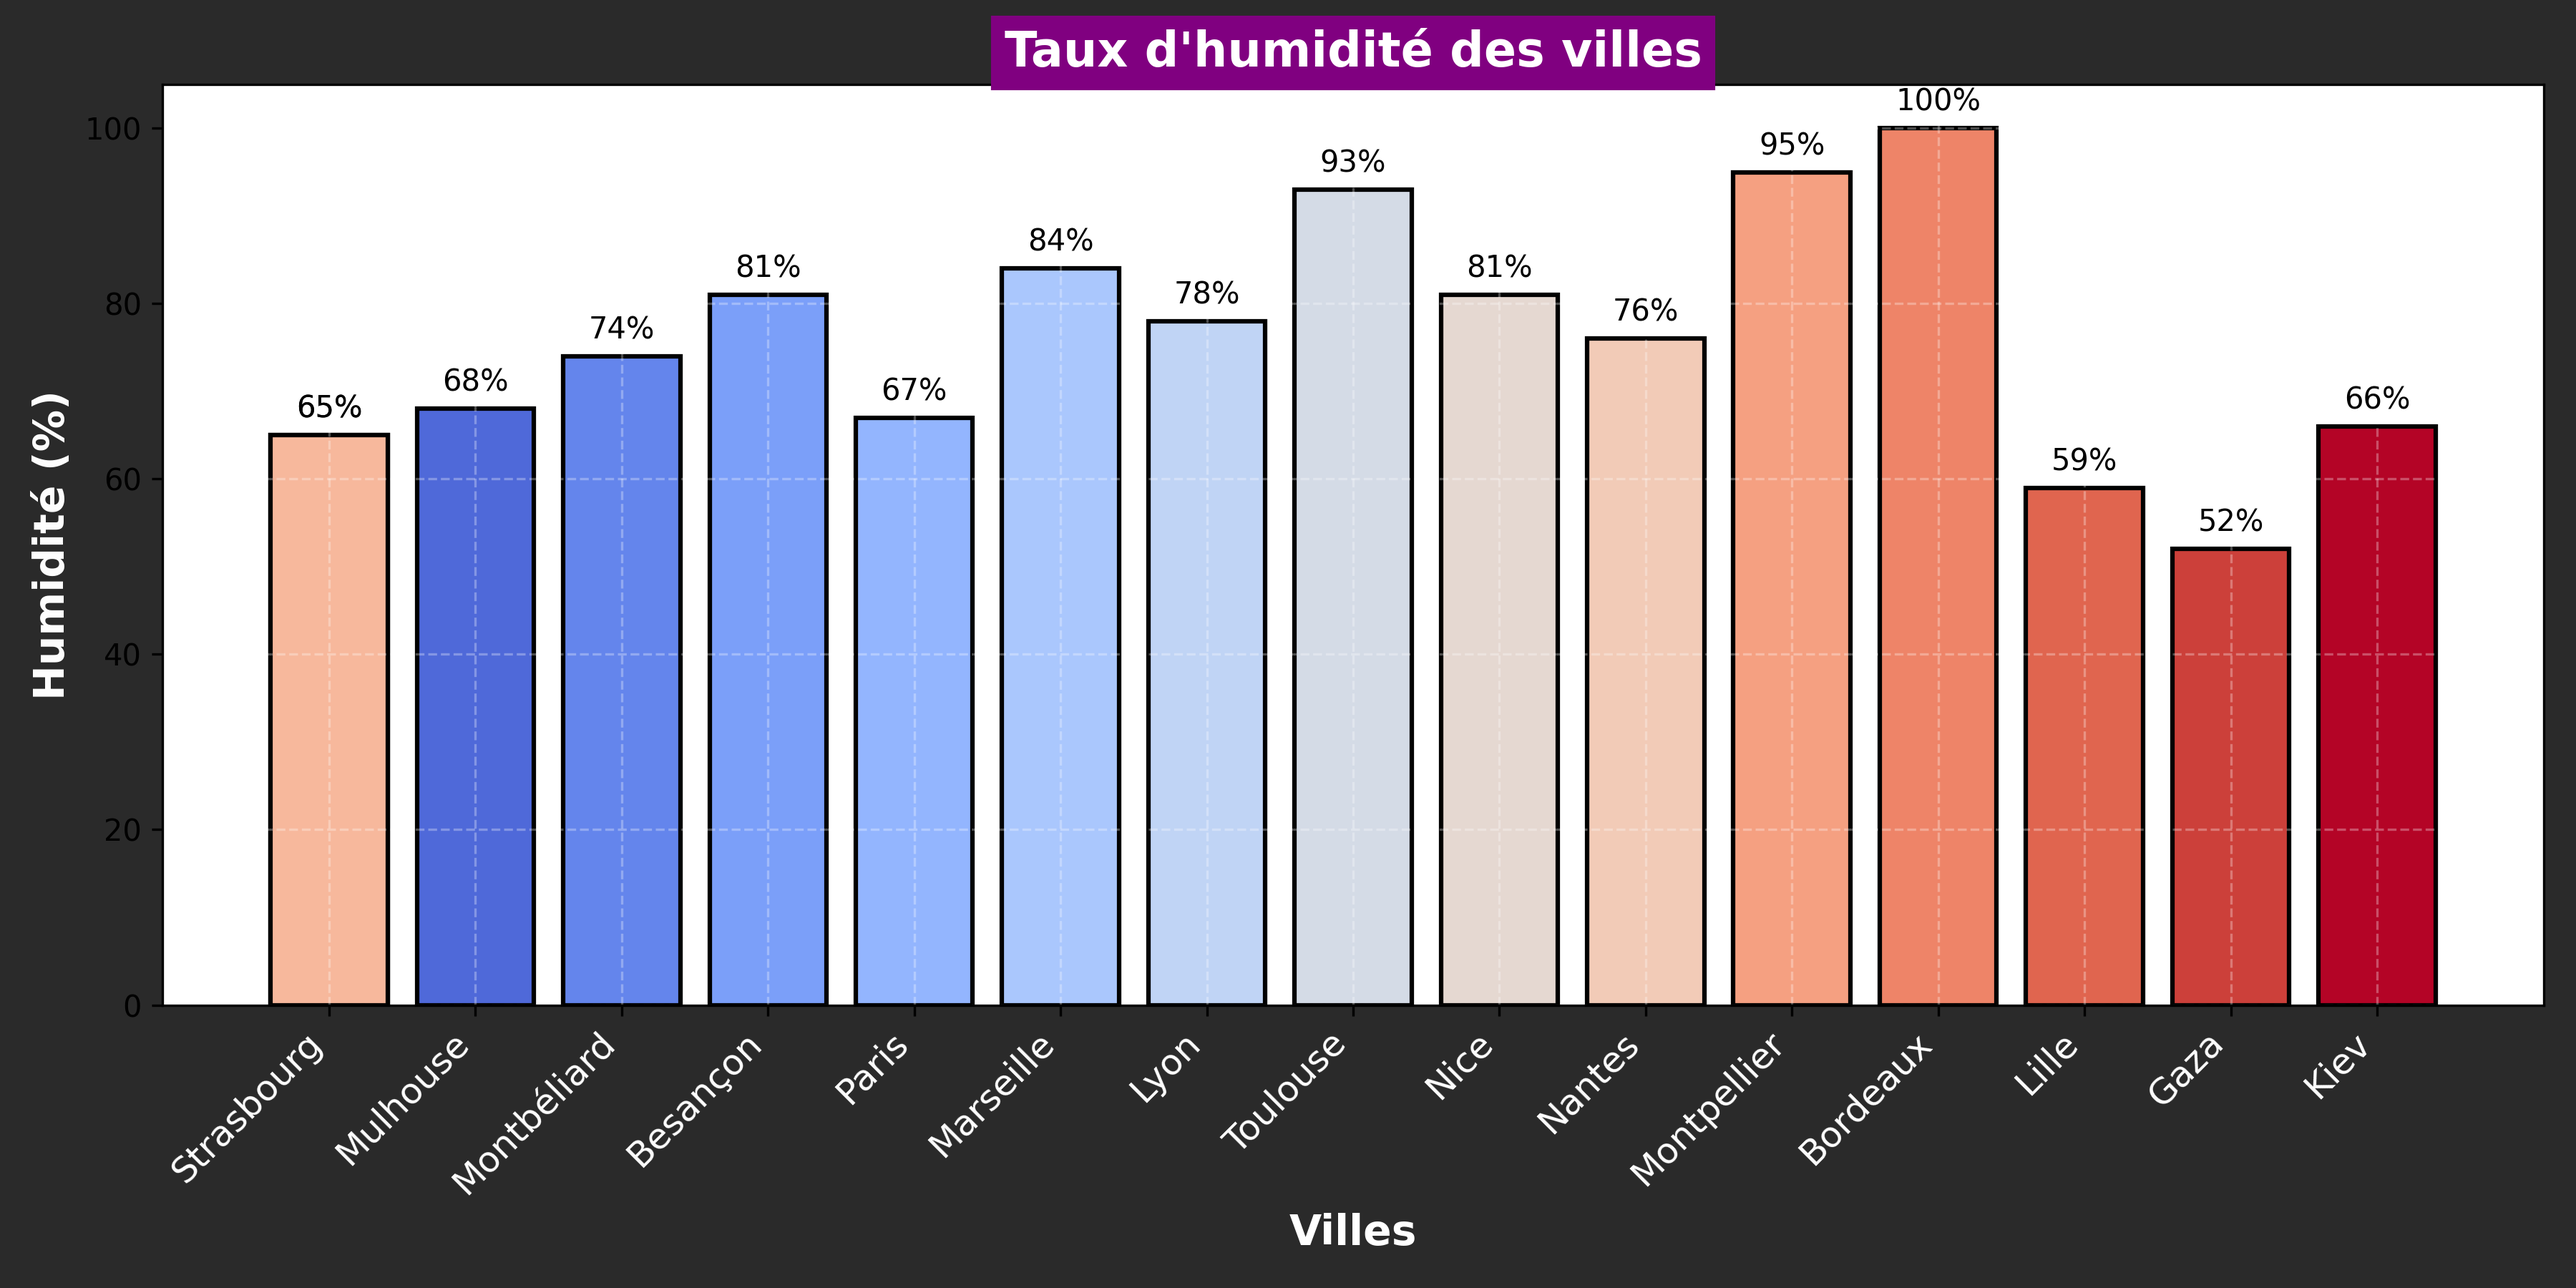
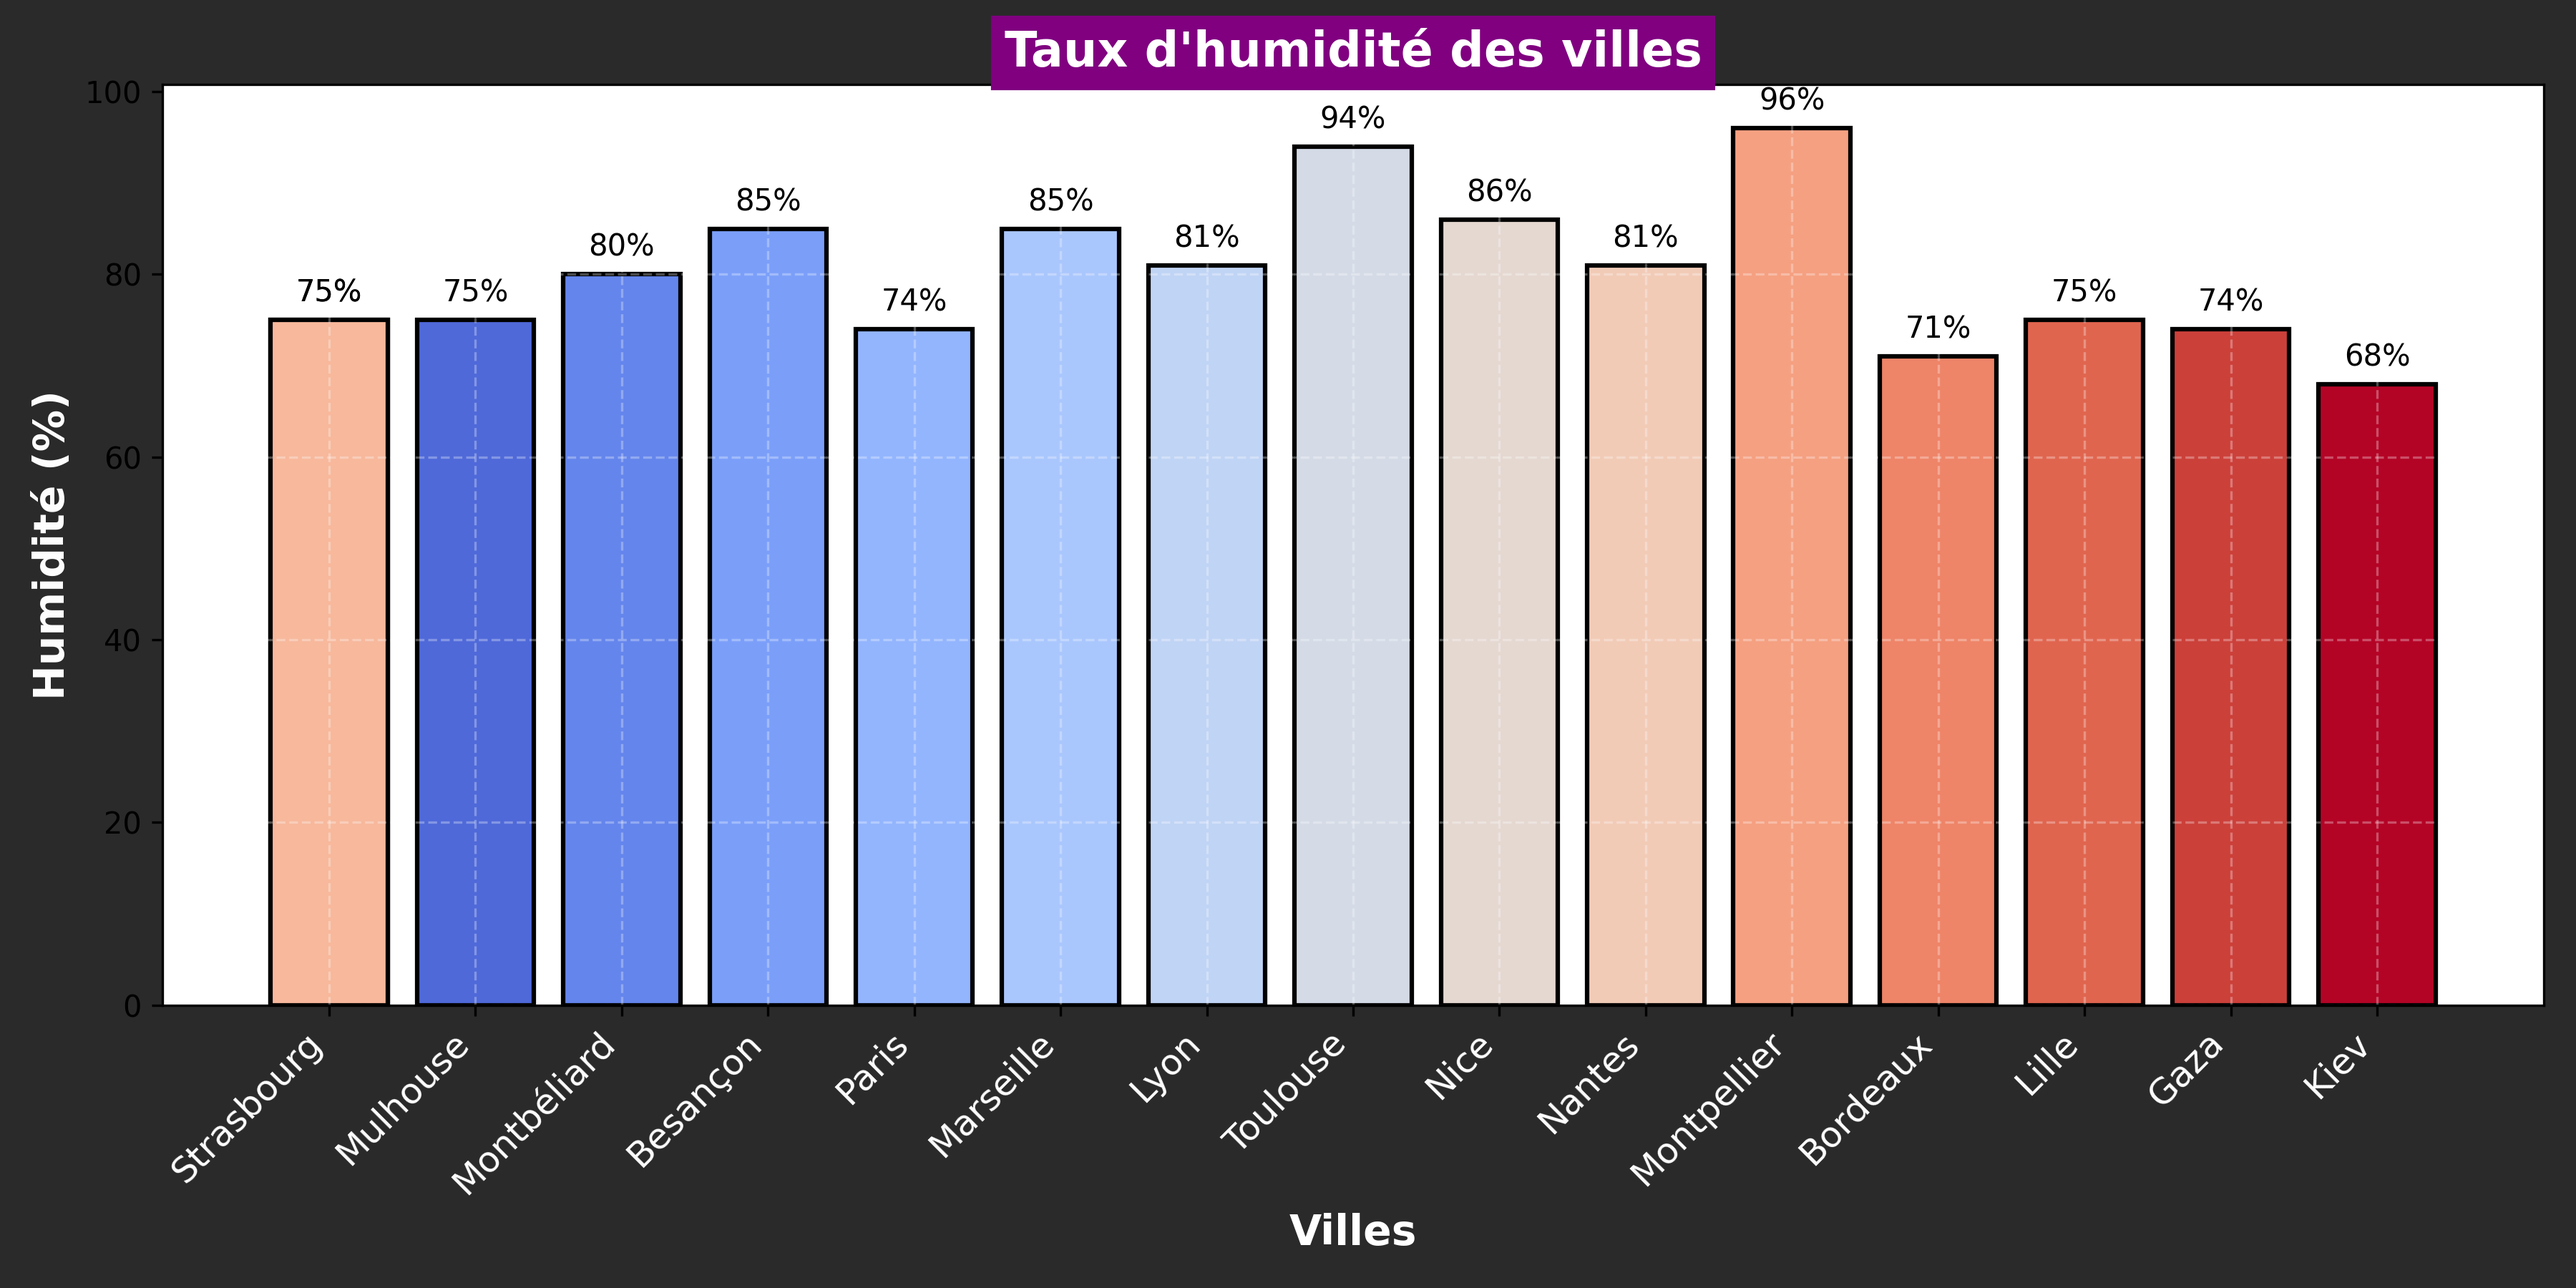
Mise à jour de la météo et ajout du graphique d'humidité

diff --git a/README.md b/README.md
@@ -24,103 +24,103 @@ Ce repo contient plusieurs workflows GitHub Actions :
 ## Météo actuelle :
 ## Météo des grandes villes + Gaza et Kiev 🌍
 
-🕒 Mise à jour : 08/04/2025 08:16:52
+🕒 Mise à jour : 09/04/2025 08:17:14
 
 ### 🌍 Strasbourg ☀
 **Conditions :** ciel dégagé
-**Température :** 3.97°C
-**Humidité :** 65%
-**Vent :** 1.54 m/s
+**Température :** 3.03°C
+**Humidité :** 75%
+**Vent :** 2.57 m/s
 
-### 🌍 Mulhouse ☀
-**Conditions :** ciel dégagé
-**Température :** 3.3°C
-**Humidité :** 68%
-**Vent :** 0.45 m/s
+### 🌍 Mulhouse 🌥
+**Conditions :** couvert
+**Température :** 4.17°C
+**Humidité :** 75%
+**Vent :** 0.64 m/s
 
 ### 🌍 Montbéliard 🌥
-**Conditions :** peu nuageux
-**Température :** 6.1°C
-**Humidité :** 74%
-**Vent :** 2.94 m/s
+**Conditions :** nuageux
+**Température :** 8.32°C
+**Humidité :** 80%
+**Vent :** 1.35 m/s
 
-### 🌍 Besançon ☀
-**Conditions :** ciel dégagé
-**Température :** 3.27°C
-**Humidité :** 81%
-**Vent :** 0.83 m/s
+### 🌍 Besançon 🌥
+**Conditions :** nuageux
+**Température :** 6.05°C
+**Humidité :** 85%
+**Vent :** 0.5 m/s
 
 ### 🌍 Paris ☀
 **Conditions :** ciel dégagé
-**Température :** 5.72°C
-**Humidité :** 67%
-**Vent :** 2.06 m/s
+**Température :** 7.08°C
+**Humidité :** 74%
+**Vent :** 4.12 m/s
 
-### 🌍 Marseille ☀
-**Conditions :** ciel dégagé
-**Température :** 6.75°C
-**Humidité :** 84%
-**Vent :** 1.63 m/s
+### 🌍 Marseille 🌥
+**Conditions :** couvert
+**Température :** 8.62°C
+**Humidité :** 85%
+**Vent :** 1.86 m/s
 
-### 🌍 Lyon ☀
-**Conditions :** ciel dégagé
-**Température :** 3.63°C
-**Humidité :** 78%
-**Vent :** 0.71 m/s
+### 🌍 Lyon 🌥
+**Conditions :** couvert
+**Température :** 4.19°C
+**Humidité :** 81%
+**Vent :** 0.75 m/s
 
-### 🌍 Toulouse ☀
-**Conditions :** ciel dégagé
-**Température :** 6.99°C
-**Humidité :** 93%
-**Vent :** 1.03 m/s
+### 🌍 Toulouse 🌥
+**Conditions :** couvert
+**Température :** 11.99°C
+**Humidité :** 94%
+**Vent :** 5.14 m/s
 
 ### 🌍 Nice 🌥
 **Conditions :** couvert
 **Température :** 6.94°C
-**Humidité :** 81%
-**Vent :** 0.48 m/s
+**Humidité :** 86%
+**Vent :** 0.82 m/s
 
-### 🌍 Nantes 🌥
-**Conditions :** peu nuageux
-**Température :** 6.96°C
-**Humidité :** 76%
-**Vent :** 1.54 m/s
+### 🌍 Nantes ☀
+**Conditions :** ciel dégagé
+**Température :** 5.96°C
+**Humidité :** 81%
+**Vent :** 2.57 m/s
 
 ### 🌍 Strasbourg ☀
 **Conditions :** ciel dégagé
-**Température :** 3.97°C
-**Humidité :** 65%
-**Vent :** 1.54 m/s
+**Température :** 3.03°C
+**Humidité :** 75%
+**Vent :** 2.57 m/s
 
 ### 🌍 Montpellier 🌥
 **Conditions :** couvert
-**Température :** 9.16°C
-**Humidité :** 95%
+**Température :** 11.94°C
+**Humidité :** 96%
 **Vent :** 2.57 m/s
 
-### 🌍 Bordeaux 🌫
-**Conditions :** brouillard
-**Température :** 5.15°C
-**Humidité :** 100%
-**Vent :** 1.03 m/s
-
-### 🌍 Lille ☀
+### 🌍 Bordeaux ☀
 **Conditions :** ciel dégagé
+**Température :** 9.15°C
+**Humidité :** 71%
+**Vent :** 2.57 m/s
+
+### 🌍 Lille 🌥
+**Conditions :** peu nuageux
 **Température :** 5.44°C
-**Humidité :** 59%
-**Vent :** 1.54 m/s
+**Humidité :** 75%
+**Vent :** 3.09 m/s
 
 ### 🌍 Gaza 🌥
-**Conditions :** partiellement nuageux
-**Température :** 22.43°C
-**Humidité :** 52%
-**Vent :** 3.71 m/s
+**Conditions :** nuageux
+**Température :** 20.16°C
+**Humidité :** 74%
+**Vent :** 4.48 m/s
 
 ### 🌍 Kiev 🌥
 **Conditions :** partiellement nuageux
-**Température :** 1.51°C
-**Humidité :** 66%
-**Vent :** 1.34 m/s
+**Température :** 2.62°C
+**Humidité :** 68%
+**Vent :** 0.45 m/s
 
 <p align='center'><img src='https://raw.githubusercontent.com/khoa083/khoa/main/Khoa_ne/img/Rainbow.gif' width='100%' style='border-radius: 5px; border: 3px solid #39FF14; box-shadow: 0 0 10px #39FF14, 0 0 20px #39FF14;' /></p>
 
